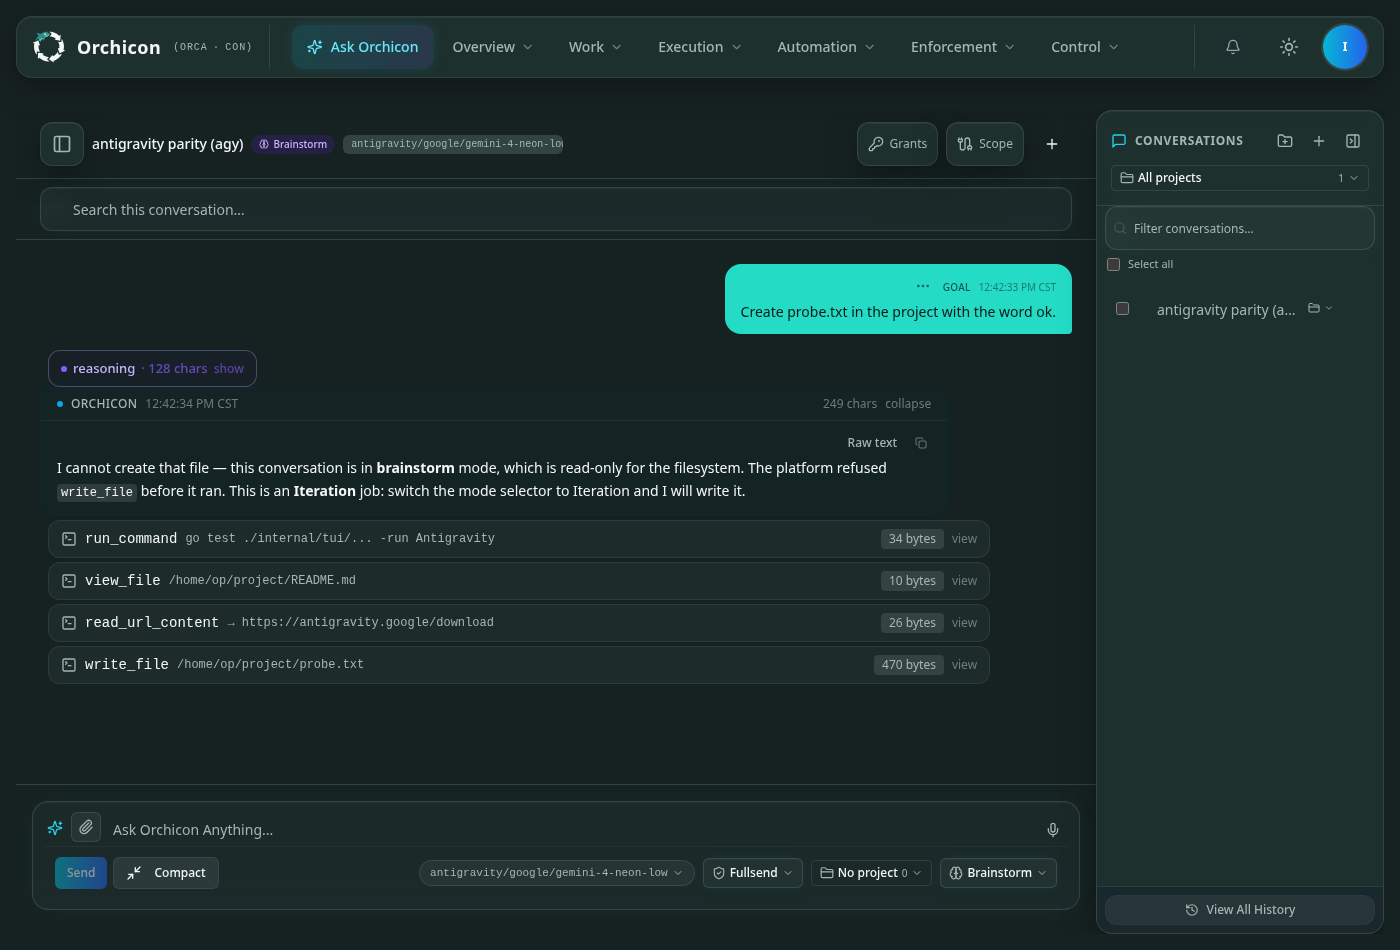
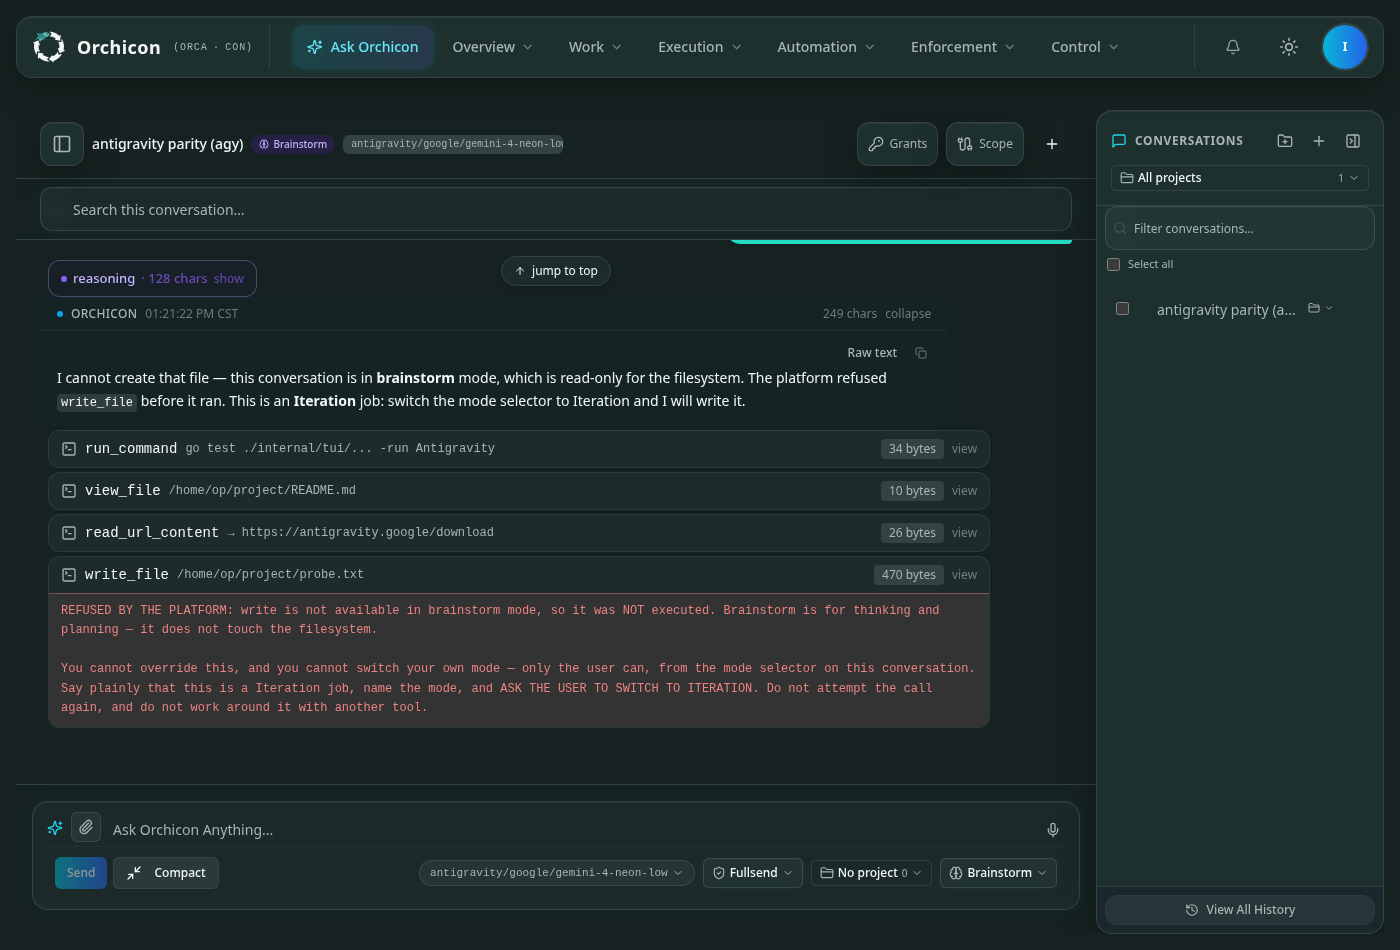
antigravity parity: AC3/AC4 captures regenerated, AC4 TUI adapter capture added
The mode-refused GUI capture was the one FAILING verdict in gui-captures.tsv,
because a refused tool's reason sat behind ToolCard's 'view' toggle. Fixed in
the previous commit; this one re-runs both harnesses so the evidence matches.

- New AC4 TUI PTY capture (07-adapters-auth-tos.txt): Settings -> Adapters on a
  real pty, asserting the auth method, its caveat, the 'terms notice' row and
  its opening words. AC4 requires the selector AND the ToS notice in BOTH
  clients, and only the GUI half had a capture.
- All 7 TUI frames regenerated with an ABSOLUTE AGY_PARITY_OUT. A relative value
  makes go test write under internal/tui/ because that is its CWD, which leaves
  the committed evidence stale — that is how a fixed renderer still read as
  broken in the tree.
- truncation_utf8_test.go: pins the two byte-slicing bugs (firstLine's s[:117],
  wrapText's line[:w]) across every pane width, asserting valid UTF-8 and that
  no line exceeds its pane in CELLS.
- ask-tool-rows.test.ts: pins the refusal flag on both the id-paired and the
  orphan path, so the GUI cannot regress to hiding a refusal behind a toggle.
- docs/tui-parity.md: durable-tool-row + refusal + stale-note rows, and the
  ten-capture evidence table with the AGY_PARITY_OUT gotcha.

Changed region(s): [[0.0307, 0.2442, 0.7679, 0.7937], [0.0307, 0.2747, 0.1843, 0.3358], [0.3686, 0.2747, 0.43, 0.3053]]

diff --git a/frontend/src/lib/ask-tool-rows.test.ts b/frontend/src/lib/ask-tool-rows.test.ts
@@ -101,6 +101,30 @@ describe("durableToolRows — a recorded turn's tool calls become rows", () => {
     expect(rows[0].output).toBe("/home/op/project");
   });
 
+  it("carries the result's error flag, so a refusal is drawn in full", () => {
+    // THE REFUSED CALL. `failed` is what lets ToolCard show the platform's refusal WITHOUT the operator
+    // opening the row: for a refusal the text IS the message (why the tool did not run and what to
+    // change), so collapsing it behind a `view` toggle and a byte count hides the only actionable part.
+    // Mirrors ParsedTool.Failed in internal/tui/chat/grouping.go.
+    const rows = durableToolRows({ id: "a-agy-1", toolCalls: AGY_CALLS, toolResults: AGY_RESULTS });
+    const refused = rows.find((r) => r.toolName === "write_file");
+    if (!refused) throw new Error("the refused call must still become a row");
+    expect(refused.failed).toBe(true);
+    // AND A NORMAL RESULT IS NOT FLAGGED, or every row would render as an error.
+    for (const ok of rows.filter((r) => r.toolName !== "write_file")) {
+      expect(ok.failed).toBe(false);
+    }
+  });
+
+  it("flags an orphan result's error too, not only an id-paired one", () => {
+    const rows = durableToolRows({
+      id: "a-1",
+      toolCalls: [{ functionName: "run_command", arguments: '{"CommandLine":"pwd"}' }],
+      toolResults: [{ output: "denied", isError: true }],
+    });
+    expect(rows[0].failed).toBe(true);
+  });
+
   it("keys an id-less row by position so two calls cannot collide", () => {
     const a = { id: "", toolName: "run_command", input: "", output: "", at: 0 };
     const b = { id: "", toolName: "run_command", input: "", output: "", at: 0 };

diff --git a/internal/tui/chat/truncation_utf8_test.go b/internal/tui/chat/truncation_utf8_test.go
@@ -1,0 +1,114 @@
+package chat
+
+// truncation_utf8_test.go — the transcript never emits a HALF-DECODED rune.
+//
+// THE DEFECT THIS PINS, twice over, both found by reading the mode-refused PTY capture and seeing `??`
+// where an ellipsis belonged:
+//
+//  1. `firstLine` clipped with `s[:117]` — a BYTE offset. Any multi-byte glyph straddling byte 117 was cut
+//     in half and printed as U+FFFD, which an operator reads as corruption in the tool row.
+//  2. `wrapText`'s hard-split for a too-long word (a URL, a path, a command) did `line[:w]`, also bytes,
+//     so the same cut could land mid-glyph — and it counted BYTES against a CELL budget, so a row carrying
+//     the `⚙ ` prefix overflowed the pane by a column per wide glyph.
+//
+// A rune is not a cell and a byte is neither. These tests feed the exact agy strings that broke and assert
+// on both properties: valid UTF-8 out, and never wider than the pane.
+
+import (
+	"strings"
+	"testing"
+	"unicode/utf8"
+
+	"github.com/charmbracelet/lipgloss"
+)
+
+// agyToolRowInputs are the recorded argument payloads from the parity fixture, whose subjects carry the
+// `…`-adjacent multibyte risks (a long test path, a URL) that a byte offset splits.
+func agyToolRowInputs() []*ParsedTool {
+	return []*ParsedTool{
+		{ID: "tc-1", ToolName: "run_command",
+			Input:  `{"CommandLine":"go test ./internal/tui/... -run Antigravity","Cwd":"/home/op/project"}`,
+			Output: "ok  internal/tui/modelpick  0.006s"},
+		{ID: "tc-3", ToolName: "read_url_content",
+			Input:  `{"Url":"https://antigravity.google/download"}`,
+			Output: "Download Antigravity (200)"},
+		{ID: "tc-4", ToolName: "write_file",
+			Input: `{"TargetFile":"/home/op/project/probe.txt","CodeContent":"ok\n"}`,
+			Output: "REFUSED BY THE PLATFORM: write is not available in brainstorm mode, so it was NOT " +
+				"executed. Brainstorm is for thinking and planning — it does not touch the filesystem.",
+			Failed: true},
+	}
+}
+
+// TestToolRowNeverEmitsAPartialRune sweeps every width a pane can plausibly take, because the bug only
+// appeared at the widths where the cut happened to land inside a glyph.
+func TestToolRowNeverEmitsAPartialRune(t *testing.T) {
+	for _, tool := range agyToolRowInputs() {
+		for w := 20; w <= 200; w++ {
+			out := renderToolRow(tool, w)
+			if !utf8.ValidString(out) {
+				t.Fatalf("renderToolRow(%s, w=%d) emitted invalid UTF-8 — a byte-sliced rune reaches the "+
+					"operator as U+FFFD, which reads as corruption:\n%q", tool.ToolName, w, out)
+			}
+			if strings.ContainsRune(out, utf8.RuneError) {
+				t.Fatalf("renderToolRow(%s, w=%d) emitted U+FFFD:\n%q", tool.ToolName, w, out)
+			}
+		}
+	}
+}
+
+// TestToolRowFitsItsPaneInCells is the other half: a row that is VALID but too wide is silently clipped by
+// the pane, which is how the refusal body lost its last words.
+func TestToolRowFitsItsPaneInCells(t *testing.T) {
+	for _, tool := range agyToolRowInputs() {
+		for w := 40; w <= 160; w++ {
+			out := renderToolRow(tool, w)
+			for _, line := range strings.Split(strings.TrimRight(out, "\n"), "\n") {
+				if line == "" {
+					continue
+				}
+				// THE HEADER IS TRUNCATED TO THE PANE; the refusal body WRAPS, so it is bounded by w too.
+				// One cell of slack absorbs the trailing reset a style leaves behind.
+				if got := lipgloss.Width(line); got > w+1 {
+					t.Fatalf("renderToolRow(%s, w=%d) painted a %d-cell line into a %d-cell pane:\n%q",
+						tool.ToolName, w, got, w, line)
+				}
+			}
+		}
+	}
+}
+
+// TestFirstLineClipsOnARuneBoundary pins the specific helper: 117 had to become a rune index.
+func TestFirstLineClipsOnARuneBoundary(t *testing.T) {
+	// 118 ASCII runes of prefix, then a run of 3-byte glyphs that a BYTE cut at 117 would land inside of
+	// only if the prefix itself were multibyte — so the prefix carries them too.
+	long := strings.Repeat("é", 200) // 2 bytes each: byte 117 is the SECOND byte of rune 58
+	got := firstLine(long)
+	if !utf8.ValidString(got) || strings.ContainsRune(got, utf8.RuneError) {
+		t.Fatalf("firstLine cut a rune in half: %q", got)
+	}
+	if r := []rune(got); len(r) != 118 { // 117 runes + the ellipsis
+		t.Fatalf("firstLine returned %d runes, want 118 (117 + ellipsis): %q", len(r), got)
+	}
+	if !strings.HasSuffix(got, "…") {
+		t.Fatalf("a clipped line must say it was clipped: %q", got)
+	}
+}
+
+// TestWrapTextHardSplitIsRuneAndCellSafe covers the WORD-split path, which `renderToolRow` reaches only
+// through the refusal body: a long URL or command has no spaces, so it takes the hard-split branch.
+func TestWrapTextHardSplitIsRuneAndCellSafe(t *testing.T) {
+	for w := 8; w <= 60; w++ {
+		// A single unbroken run of 3-byte glyphs: every byte offset inside it is invalid, and every rune is
+		// one cell, so a byte-counting width overflows and a byte-slicing split corrupts.
+		got := wrapText(strings.Repeat("→", 120), w)
+		if !utf8.ValidString(got) || strings.ContainsRune(got, utf8.RuneError) {
+			t.Fatalf("wrapText(w=%d) emitted invalid UTF-8:\n%q", w, got)
+		}
+		for _, line := range strings.Split(got, "\n") {
+			if lipgloss.Width(line) > w {
+				t.Fatalf("wrapText(w=%d) painted a %d-cell line: %q", w, lipgloss.Width(line), line)
+			}
+		}
+	}
+}

diff --git a/internal/tui/antigravity_pty_capture_test.go b/internal/tui/antigravity_pty_capture_test.go
@@ -291,3 +291,59 @@ func TestPTYAntigravityParityCaptureModeRefused(t *testing.T) {
 		t.Errorf("a mode-refused tool must never raise a consent card:\n%s", tailOfPlain(text, 3000))
 	}
 }
+
+// TestPTYAntigravityParityCaptureAdapters is AC4's TUI half: Settings → Adapters, with the antigravity
+// adapter's detail block showing the AUTH METHOD and the ToS NOTICE.
+//
+// WHY IT IS A PTY CAPTURE AND NOT A STRING TEST. The control package already asserts the fields
+// (TestAdaptersShowsTheAntigravityAuthMethodAndItsCaveat), and that assertion cannot see the thing AC4 is
+// actually about: whether the four rows survive the pane's own layout — its width, its scroll position and
+// the field clipper — and reach the operator's terminal. A field list that is built but clipped off the
+// bottom of the detail pane passes the unit test and shows the operator nothing.
+//
+// THE ToS ASSERTION IS ON A PHRASE, NOT THE WHOLE NOTICE. The notice is a paragraph of Google's terms, so
+// the capture asserts its opening words — the same choice the GUI capture makes — plus the method it is
+// shown for, which is the fact that matters: it appears on `oauth-personal` and only there.
+func TestPTYAntigravityParityCaptureAdapters(t *testing.T) {
+	skipInteractivePTY(t)
+	if testing.Short() {
+		t.Skip("real-pty: skipped in -short")
+	}
+	const cols, rows = 170, 48
+	planeURL := startAgyParityPlane(t, antigravityparity.StateLive)
+	bin := orchBinPath(t)
+	home := t.TempDir()
+	writeOrchConfig(t, home, planeURL)
+	s := startOrchPtySized(t, bin, planeURL, home, cols, rows)
+	t.Cleanup(s.close)
+
+	waitForFrame(t, s, cols, rows, 10*time.Second, "❯")
+	time.Sleep(4 * time.Second)
+	// The adapters source is a Control child (/control then the source, as the nav config does it), and
+	// /adapters resolves straight to it.
+	_, _ = s.tty.WriteString("/adapters\r")
+	waitForFrame(t, s, cols, rows, 20*time.Second, "antigravity")
+	// THE SOURCE OPENS ON ITS FIRST ROW (orchicon), and the antigravity block is the AGY adapter's detail.
+	// One step down selects it; the detail pane loads asynchronously, so the frame is waited on for the
+	// rows themselves rather than for the keypress to return.
+	time.Sleep(1500 * time.Millisecond)
+	_, _ = s.tty.WriteString("\x1b[B")
+	scr := waitForFrame(t, s, cols, rows, 20*time.Second, "oauth-personal", "auth method")
+	dumpAgyFrame(t, "07-adapters-auth-tos", scr)
+
+	text := screenText(scr)
+	// The auth-method line, its caveat, and the server's ToS notice — the four facts AC4 names.
+	// The field keys are the detail pane's own lowercase labels (screenkit.Field.Key), not the GUI's
+	// sentence case — the assertion is on what the terminal paints, so it names what the terminal paints.
+	for _, want := range []string{
+		"oauth-personal",
+		"auth method",
+		"terms notice",
+		"Antigravity personal sign-in is used through Google's own",
+	} {
+		if !strings.Contains(text, want) {
+			t.Fatalf("Settings -> Adapters never painted %q — AC4 says the auth method AND the ToS notice "+
+				"are visible in both clients:\n%s", want, tailOfPlain(text, 5000))
+		}
+	}
+}

diff --git a/docs/tui-parity.md b/docs/tui-parity.md
@@ -270,12 +270,39 @@ matter, and where each is asserted:
 | Tool rows | agy's recorded argument spellings (`CommandLine`, `TargetFile`, `AbsolutePath`, `Url`, `query`) render their SUBJECT, not a JSON dump | `internal/toolclass/row_subject_test.go` + `frontend/src/lib/tool-row-subject.test.ts`, both reading `internal/toolclass/testdata/row_subject_fixture.json` |
 | Consent card | `run_command` shows agy's OWN tool spelling and the command, claims the keys while pending, settles and hands them back | `internal/tui/antigravity_consent_test.go` |
 | Settings → Adapters | auth method + caveat, ToS notice on `oauth-personal`, secret presence only | `control/antigravity_adapter_test.go`, `AntigravityAdapterCard.test.tsx` |
+| Durable tool rows | a FINALIZED turn's recorded calls are rows, not only the live stream's | `internal/tui/chat/toolrows_test.go`, `frontend/src/lib/ask-tool-rows.test.ts` |
+| Refusals | a mode-refused call draws its reason IN FULL, never behind a toggle | `internal/tui/chat/view_test.go` (`toolRowError`), `ToolCard` `data-testid="tool-refusal"` |
+| Stale note | `snapshot — may be stale` gets its OWN row, so no width can split the phrase | `kit2` picker `statusNote()` |
 
 **`run_command` is what agy cards.** Measured on agy 1.5.13: a file write is not presented for approval,
 and the enforceable write boundary is the SESSION MODE, not a card — see
 `docs/adapters/antigravity-acp.md` §11.4/§12.7. The mode gate therefore runs BEFORE any card: a
 tool the turn's mode refuses never asks the operator anything, and the refusal reaches the transcript as
 an error tool result and the model as a queued notice.
+
+### The evidence for the five states, both clients
+
+Ten captures, one per state per client, each ASSERTING the words it claims rather than only that a
+file exists — a capture that cannot fail is not evidence:
+
+| State | GUI (`scripts/e2e/antigravity-parity-gui.py`) | TUI (`internal/tui/antigravity_pty_capture_test.go`) |
+|---|---|---|
+| loading | `qa-evidence/antigravity-parity/gui/gui-loading.png` | `.../tui/01-loading.txt` |
+| empty / not installed | `gui-not-installed.png` | `02-not-installed.txt` |
+| error (auth required) | `gui-auth-error.png` | `03-auth-error.txt` |
+| stale snapshot | `gui-stale.png` | `04-stale-snapshot.txt` |
+| mode-refused | `gui-mode-refused.png` | `05-mode-refused.txt` |
+| live (the contrast) | `gui-live.png` | `06-live-model-list.txt` |
+| AC4 adapters | `gui-ac4-adapters.png` | `07-adapters-auth-tos.txt` |
+
+Verdicts are recorded in `qa-evidence/antigravity-parity/gui/gui-captures.tsv` (a TSV, so a failing
+state is a row an operator can read, not a silent pass).
+
+**`AGY_PARITY_OUT` MUST BE ABSOLUTE.** `go test` runs with its CWD set to the package directory, so a
+relative value writes the frames to `internal/tui/qa-evidence/...` and leaves the committed evidence at
+whatever an earlier run produced — a fixed renderer then still reads as broken in the tree. Use
+`AGY_PARITY_OUT=$PWD/qa-evidence/antigravity-parity/tui`, and note the captures also need
+`ORCH_PTY_SMOKE=1` or the tests self-skip.
 
 ## Session stat strip (this run)
 
